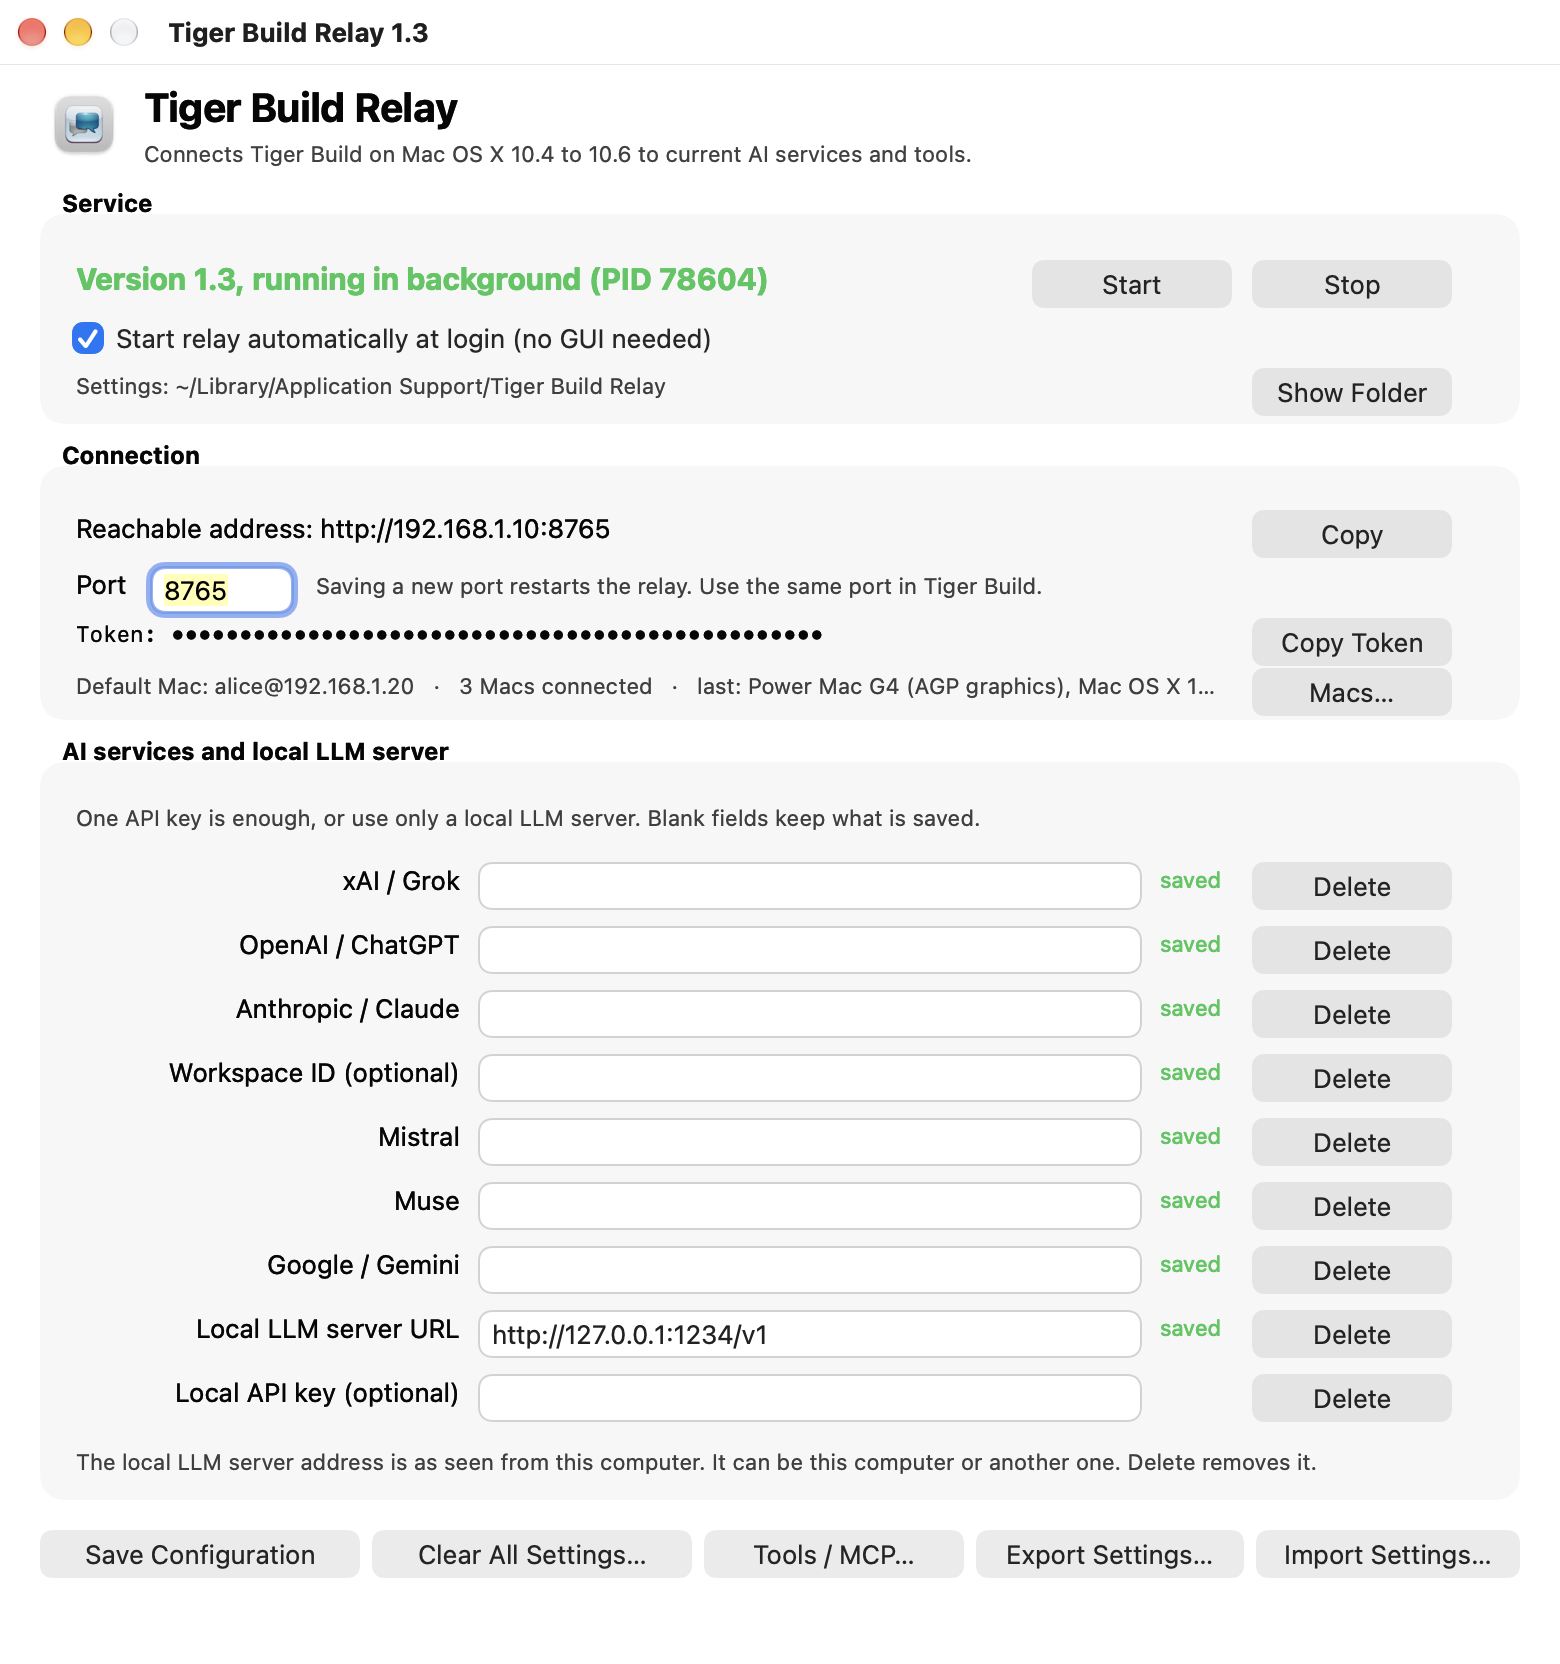
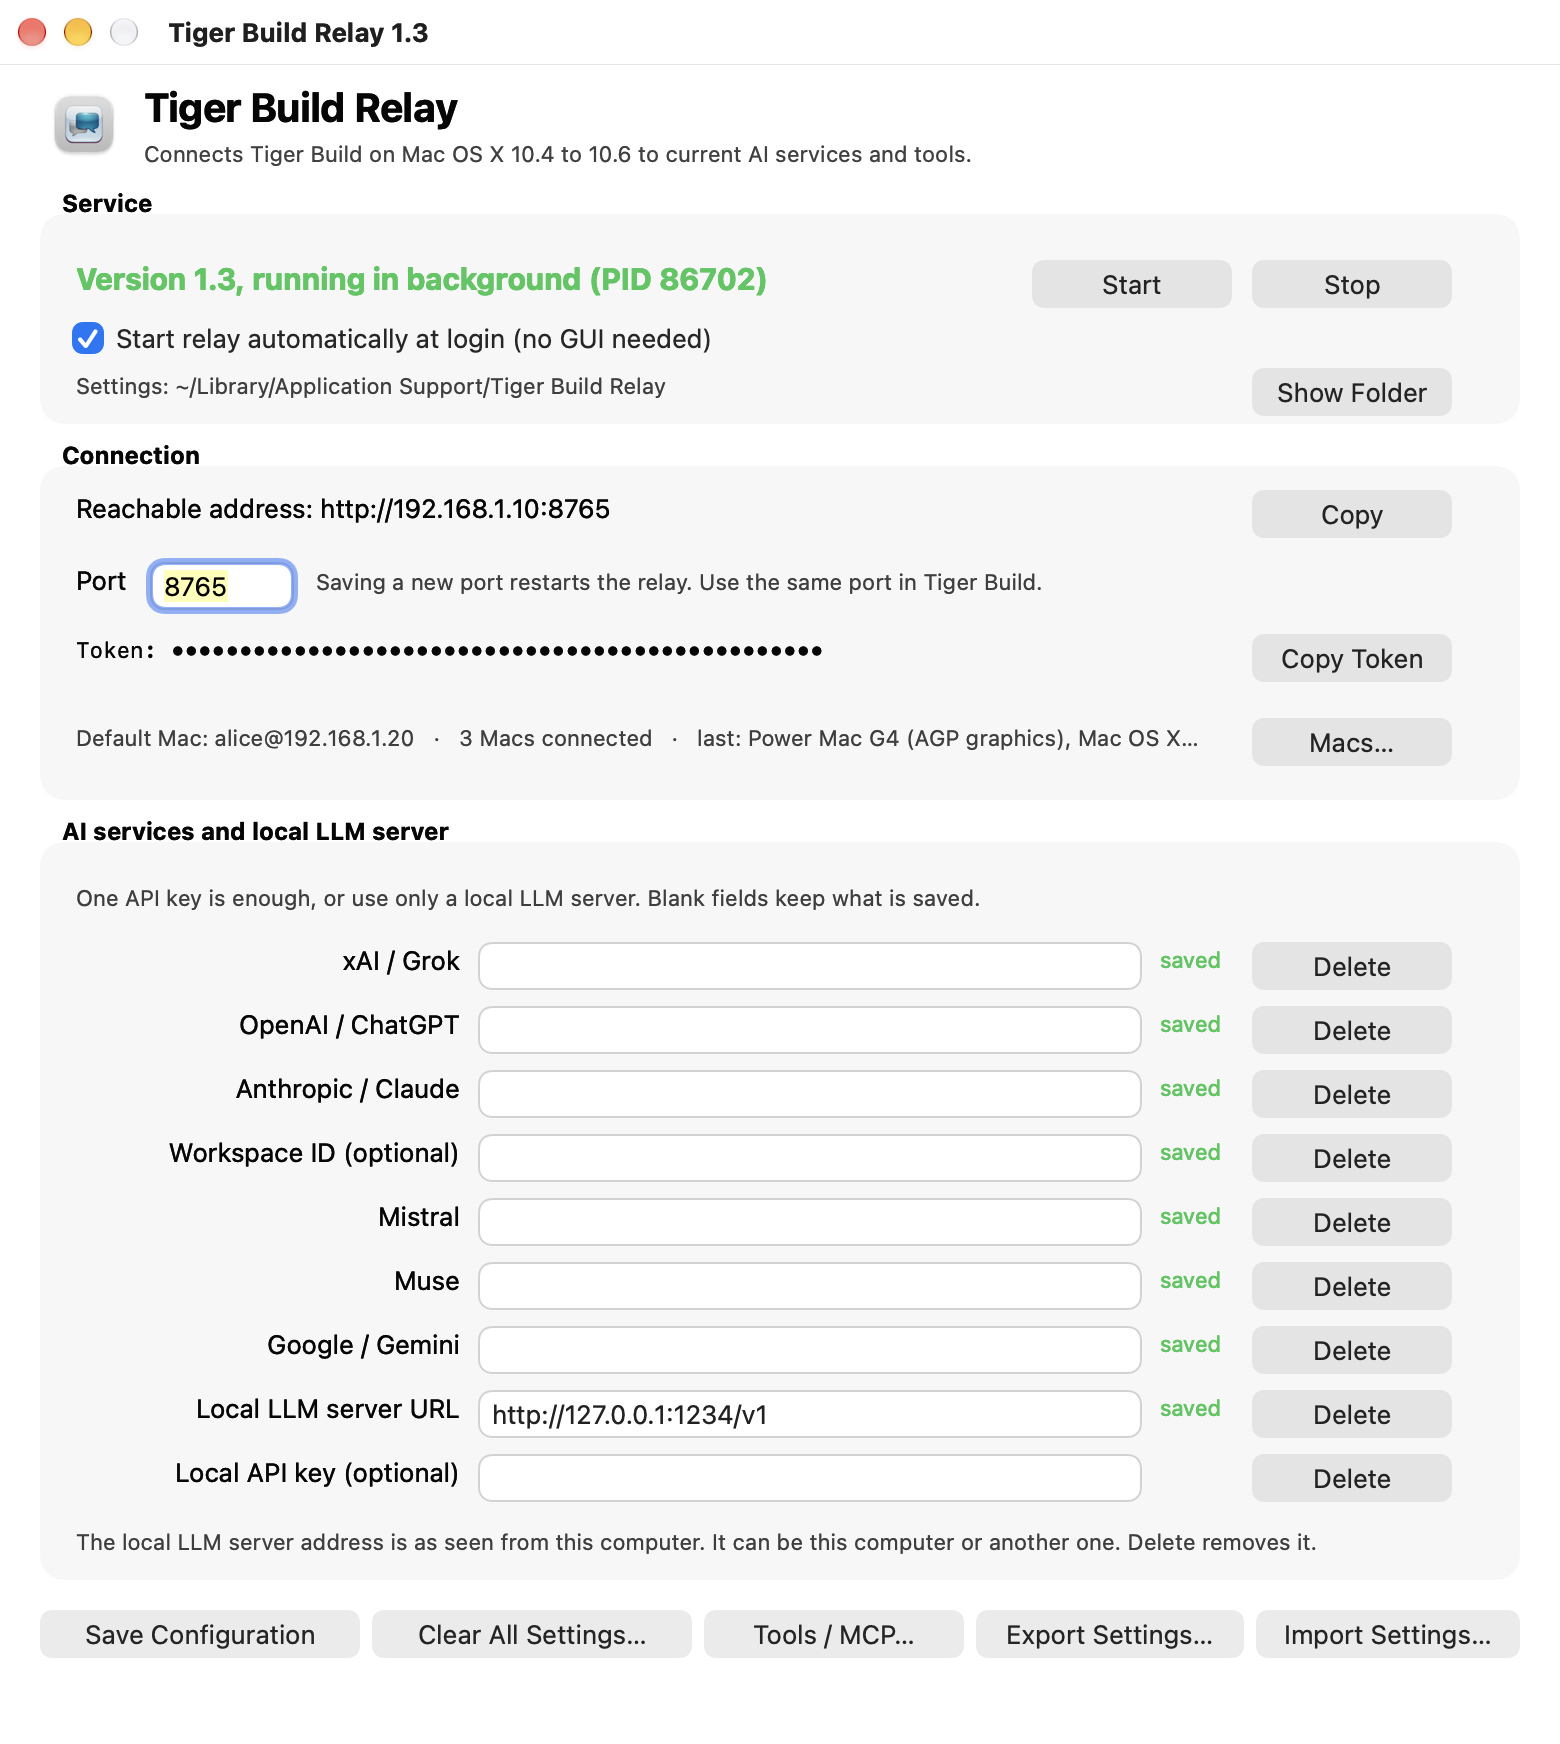
Even Stop/Send button size and gaps; Connection box rows and buttons evenly spaced in the Mac relay app

diff --git a/relay-gui/main.swift b/relay-gui/main.swift
@@ -132,16 +132,16 @@ final class Controller: NSObject, NSApplicationDelegate, NSMenuItemValidation {
             if let action=item.action,let combo=shortcuts[NSStringFromSelector(action)] {item.keyEquivalent=combo.0;item.keyEquivalentModifierMask=combo.1}
         }}
         NSApp.mainMenu = menu
-        window = NSWindow(contentRect: NSRect(x: 0, y: 0, width: 780, height: 800), styleMask: [.titled, .closable, .miniaturizable], backing: .buffered, defer: false)
+        window = NSWindow(contentRect: NSRect(x: 0, y: 0, width: 780, height: 840), styleMask: [.titled, .closable, .miniaturizable], backing: .buffered, defer: false)
         window.title = "Tiger Build Relay"; window.center(); window.isReleasedWhenClosed = false
         let v = window.contentView!
-        let icon = NSImageView(frame: NSRect(x: 24, y: 752, width: 36, height: 36))
+        let icon = NSImageView(frame: NSRect(x: 24, y: 792, width: 36, height: 36))
         icon.image = NSImage(named: NSImage.applicationIconName); v.addSubview(icon)
-        label("Tiger Build Relay", 70, 764, 500, 26, bold: true, size: 20)
-        let tagline = label("Connects Tiger Build on Mac OS X 10.4 to 10.6 to current AI services and tools.", 70, 746, 600, 16, size: 11)
+        label("Tiger Build Relay", 70, 804, 500, 26, bold: true, size: 20)
+        let tagline = label("Connects Tiger Build on Mac OS X 10.4 to 10.6 to current AI services and tools.", 70, 786, 600, 16, size: 11)
         tagline.textColor = .secondaryLabelColor
 
-        let serviceBox = section("Service", NSRect(x: 20, y: 620, width: 740, height: 118))
+        let serviceBox = section("Service", NSRect(x: 20, y: 660, width: 740, height: 118))
         put(status, in: serviceBox, 16, 60, 470, 22); status.font = .boldSystemFont(ofSize: 15)
         put(button("Start", 0, 0, 100, "startRelay:"), in: serviceBox, 496, 55, 100, 30)
         put(button("Stop", 0, 0, 100, "stopRelay:"), in: serviceBox, 606, 55, 100, 30)
@@ -150,20 +150,21 @@ final class Controller: NSObject, NSApplicationDelegate, NSMenuItemValidation {
         folder.lineBreakMode = .byTruncatingMiddle; folder.isSelectable = true
         put(button("Show Folder", 0, 0, 100, "openSupport:"), in: serviceBox, 606, 2, 100, 28)
 
-        let connection = section("Connection", NSRect(x: 20, y: 472, width: 740, height: 140))
-        put(address, in: connection, 16, 84, 470, 20); address.isSelectable = true
-        put(button("Copy", 0, 0, 100, "copyAddress:"), in: connection, 606, 78, 100, 30)
-        let portLabel = NSTextField(labelWithString: "Port"); put(portLabel, in: connection, 16, 54, 40, 22)
-        put(port, in: connection, 56, 54, 70, 22)
+        // Rows 36 apart; the three buttons on the right are the same size and evenly spaced.
+        let connection = section("Connection", NSRect(x: 20, y: 472, width: 740, height: 180))
+        put(address, in: connection, 16, 134, 470, 20); address.isSelectable = true
+        put(button("Copy", 0, 0, 100, "copyAddress:"), in: connection, 606, 128, 100, 30)
+        let portLabel = NSTextField(labelWithString: "Port"); put(portLabel, in: connection, 16, 96, 40, 22)
+        put(port, in: connection, 56, 96, 70, 22)
         let portNote = NSTextField(labelWithString: "Saving a new port restarts the relay. Use the same port in Tiger Build.")
         portNote.font = .systemFont(ofSize: 11); portNote.textColor = .secondaryLabelColor
-        put(portNote, in: connection, 136, 56, 460, 18)
-        put(token, in: connection, 16, 30, 570, 20); token.isSelectable = true
+        put(portNote, in: connection, 136, 98, 460, 18)
+        put(token, in: connection, 16, 62, 570, 20); token.isSelectable = true
         token.font = .monospacedSystemFont(ofSize: 11, weight: .regular); token.lineBreakMode = .byTruncatingTail
-        put(button("Copy Token", 0, 0, 100, "copyToken:"), in: connection, 606, 24, 100, 30)
-        put(button("Macs…", 0, 0, 100, "tigerMacPanel:"), in: connection, 606, 0, 100, 28)
-        put(tigerMac, in: connection, 16, 6, 580, 18); tigerMac.font = .systemFont(ofSize: 11)
+        put(button("Copy Token", 0, 0, 100, "copyToken:"), in: connection, 606, 56, 100, 30)
+        put(tigerMac, in: connection, 16, 20, 570, 18); tigerMac.font = .systemFont(ofSize: 11)
         tigerMac.textColor = .secondaryLabelColor; tigerMac.lineBreakMode = .byTruncatingTail
+        put(button("Macs…", 0, 0, 100, "tigerMacPanel:"), in: connection, 606, 14, 100, 30)
 
         let keys = section("AI services and local LLM server", NSRect(x: 20, y: 82, width: 740, height: 382))
         let keyNote = NSTextField(labelWithString: "One API key is enough, or use only a local LLM server. Blank fields keep what is saved.")

diff --git a/tiger-build/ChatController.m b/tiger-build/ChatController.m
@@ -734,7 +734,7 @@ static void streamCallback(CFReadStreamRef stream, CFStreamEventType type, void 
     column = sideW - 28;
     if (column < 80)
         column = 80;
-    fieldW = mainW - 16 - 76 - 64 - 12;
+    fieldW = mainW - 16 - 76 - 76 - 16;
     if (fieldW < 80)
         fieldW = 80;
     chatLayout = TBLayoutChatPane(mainW, mainH, [self inputHeightForWidth:fieldW - 70],

diff --git a/tiger-build/TBSupport.m b/tiger-build/TBSupport.m
@@ -30,8 +30,8 @@ TBChatLayout TBLayoutChatPane(float paneWidth, float paneHeight, float wanted, f
 {
     TBChatLayout layout;
     float sendW = 76;
-    float stopW = 64;
-    float gap = 6;
+    float stopW = 76;
+    float gap = 8;
     float fieldW = paneWidth - 16 - sendW - stopW - 2 * gap;
     float maxField;
     float inputTop;
